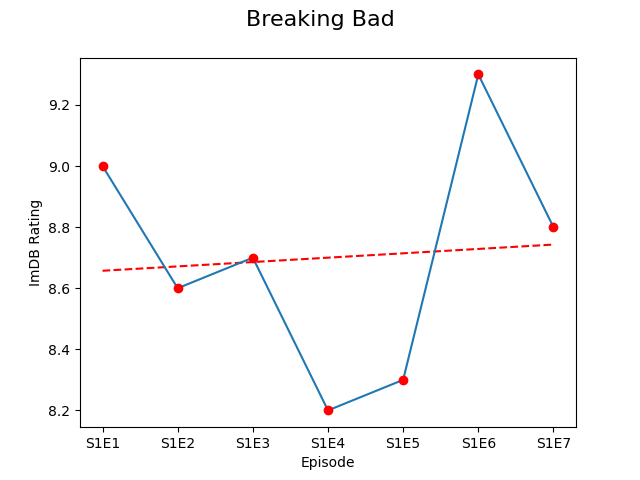
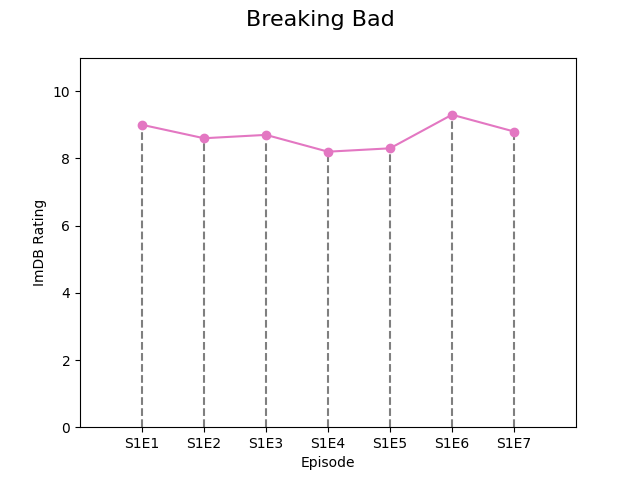
adding graphic tweaks

diff --git a/server.py b/server.py
@@ -17,6 +17,7 @@ import urllib.parse
 import os
 
 token = os.getenv("TOKEN", default="k_123456789")
+
 app = Flask(__name__,static_url_path='/static')
 app.config['SESSION_TYPE'] = 'memcached'
 app.config['SECRET_KEY'] = 'super secret key'
@@ -24,8 +25,12 @@ app.config['DEBUG'] = True
 
 logger = logging.getLogger('Server Logging')
 logging.basicConfig(level=logging.DEBUG,format='%(asctime)s - %(name)s - %(levelname)s - %(message)s')
+logging.getLogger('matplotlib').setLevel(logging.WARNING)
 logger.info('Logger for Upload Server was initialized')
 
+@app.route('/', methods=['GET'])
+def base():
+    return redirect('/home')
 
 
 @app.route('/home', methods=['GET'])
@@ -74,6 +79,7 @@ def plot_png():
                         # No more seasons left
                         logger.debug("Breaking the loop")
                         # Creating overall Trend
+                        y = allRatings
                         trend_x, p = create_trend(y)
                         ax.plot(trend_x,p(trend_x),"r--")
                     except:
@@ -84,23 +90,33 @@ def plot_png():
                     ratings[f'S{season}E{i["episodeNumber"]}'] = i["imDbRating"]
                 episodeNumber = []
                 rating = []
-                for i in ratings:
-                    episodeNumber.append(i)
-                    rating.append(float(ratings[i]))
-                    # Collecting all episodes and ratings for overall trend
-                    allRatings.append(float(ratings[i]))
-                x = episodeNumber
-                y = rating
-                mean = sum(rating)/len(rating)
-                trend_x, p = create_trend(y)
-                ax.plot(trend_x,p(trend_x),"r--")
-                if season%2:
-                    ax.plot(x,y,x,y,"or")
-                else:
-                    ax.plot(x,y,x,y,"oy")
-                ax.hlines(mean,x[0],x[-1])
-                season += 1
-            
+                logger.debug(f'Rating array looks the following: {ratings}')
+                # Trying to extract ratings of every episode, sometimes new season is already listet but without rating
+                try:
+                    for i in ratings:
+                        episodeNumber.append(i)
+                        logger.debug(f'The episode {i} has rating {ratings[i]}')
+                        rating.append(float(ratings[i]))
+                        # Collecting all episodes and ratings for overall trend
+                        allRatings.append(float(ratings[i]))
+                    x = episodeNumber
+                    y = rating
+                    #trend_x, p = create_trend(y)
+                    #ax.plot(trend_x,p(trend_x),"r--")
+                    if season%2:
+                        ax.stem(x,y,linefmt='C7--', markerfmt='C1o-', bottom=0, basefmt='')
+                    else:
+                        ax.stem(x,y,linefmt='C7--', markerfmt='C0o-', bottom=0, basefmt='')
+                except:
+                    pass
+                finally:
+                    season += 1
+            ax.set_yticks([0,2,4,6,8,10])
+            ax.axis(ymin=0,ymax=10*1.1,xmin=-1,xmax=len(allRatings))
+            fig.set_dpi(120)
+            fig.autofmt_xdate(bottom=0.2, rotation=90, ha='center', which='major')
+            ax.autoscale(enable=True, axis='x')
+            fig.suptitle(f'{request.form["title"]}', fontsize=16)
             # Save it to a temporary buffer.
             buf = BytesIO()
             fig.savefig(buf, format="png")

diff --git a/graph.py b/graph.py
@@ -20,7 +20,6 @@ for i in ratings:
                 # Collecting all episodes and ratings for overall trend
                 allEpisodes.append(i)
                 allRatings.append(float(ratings[i]))
-print(allEpisodes)
 x = episodeNumber
 y = rating
 
@@ -30,12 +29,14 @@ for i in range(len(y)):
 test_x = np.array(a)
 test_y = np.array(y)
 
-z = np.polyfit(test_x, test_y, 1)
-p = np.poly1d(z)
-ax.plot(test_x,p(test_x),"r--")
-mean = sum(rating)/len(rating)
-ax.plot(x,y,x,y,"or")
+#z = np.polyfit(test_x, test_y, 1)
+#p = np.poly1d(z)
+#ax.plot(test_x,p(test_x),"r--")
+#mean = sum(rating)/len(rating)
+ax.stem(x,y,linefmt='C7--', markerfmt='C1o-', bottom=0, basefmt='none')
 ax.set_xlabel('Episode')
 ax.set_ylabel('ImDB Rating')
+ax.set_yticks([0,2,4,6,8,10])
+ax.axis(ymin=0,ymax=10*1.1,xmin=-1,xmax=len(allRatings))
 fig.suptitle(f'Breaking Bad', fontsize=16)
 fig.savefig("./test.png", format="png")
